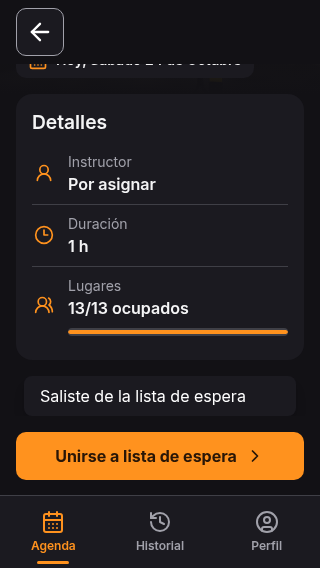
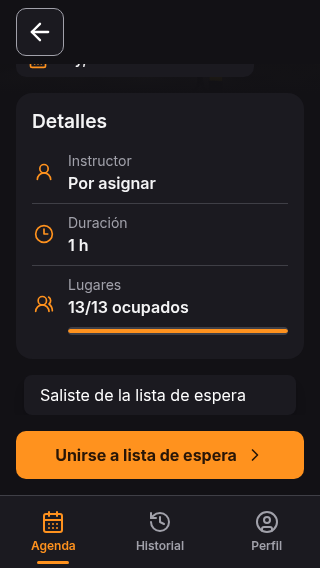
Fix installed PWA navigation and floral background layering

diff --git a/styles/cempasuchil.css b/styles/cempasuchil.css
@@ -3,9 +3,8 @@
 /* Hallmark · finish-review: subagent · ship · 2 findings resolved: toolbar and feedback no longer cover content */
 /* styles/cempasuchil.css: integrates the seasonal artwork and class-detail layout. */
 /* RELEVANT FILES: index.html, styles/app.css, styles/tokens.css, images/cempasuchil-border.png */
-.agenda-screen { isolation: isolate; min-height: calc(100dvh - var(--nav-height) - var(--safe-bottom)); }
-.agenda-screen > :not(.agenda-floral-dock) { position: relative; z-index: 1; }
-.agenda-floral-dock { position: fixed; inset-inline: 0; bottom: calc(var(--nav-height) + var(--safe-bottom)); margin: 0 !important; line-height: 0; z-index: 0; pointer-events: none; }
+.agenda-screen { min-height: 100%; }
+.agenda-floral-dock { position: absolute; inset-inline: 0; bottom: 0; margin: 0; line-height: 0; z-index: 0; pointer-events: none; }
 .agenda-floral-border { display: block; width: 100%; max-width: 760px; height: auto; max-height: 240px; object-fit: cover; object-position: bottom; margin-inline: auto; outline: none; user-select: none; }
 .app-bottom-nav { border-radius: 0; }
 body[data-app='member'] .app-bottom-nav .nav-button.active-nav::before { top: auto; bottom: var(--space-2xs); }
@@ -41,8 +40,8 @@ body[data-app='member'] .app-bottom-nav .nav-button.active-nav::before { top: au
 @media (prefers-reduced-motion: reduce) { .class-detail-booking-button { transition: none; } }
 
 /* Keep chrome and feedback outside the scroll pane so neither covers class information. */
-body[data-app='member'] #main-content.has-class-details { padding-bottom: calc(var(--nav-height) + var(--safe-bottom)); }
-.class-detail-screen { display: grid; grid-template-rows: auto minmax(0, 1fr) auto auto; height: calc(100dvh - var(--nav-height) - var(--safe-top) - var(--safe-bottom)); min-height: 0; }
+body[data-app='member'] #main-content.has-class-details { padding-bottom: 0; }
+.class-detail-screen { display: grid; grid-template-rows: auto minmax(0, 1fr) auto auto; height: 100%; min-height: 0; }
 .class-detail-toolbar { padding: var(--space-xs) var(--space-md); background: var(--color-paper); color: var(--color-ink); }
 .class-detail-back { position: static; }
 .class-detail-content { min-height: 0; overflow-y: auto; scroll-padding-block: var(--space-md); padding-bottom: var(--space-md); }
@@ -51,3 +50,15 @@ body[data-app='member'] #main-content.has-class-details { padding-bottom: calc(v
 .class-detail-feedback #toast { position: static; transform: none; width: auto; max-width: none; margin: 0 var(--space-lg); }
 .class-detail-feedback #toast.opacity-0 { display: none; }
 @media (max-height: 700px) { .class-detail-hero { min-height: 224px; } }
+
+/* A single shell owns the viewport; scrolling never repositions the navigation or artwork. */
+html { height: 100%; }
+body[data-app='member'] { display: flex; flex-direction: column; height: 100%; height: 100dvh; overflow-y: hidden; overscroll-behavior-y: none; }
+body[data-app='member'] #app-container { flex: 1 1 0; height: auto; min-height: 0; overflow: hidden; }
+.app-stage { position: relative; isolation: isolate; z-index: 0; flex: 1 1 0; min-height: 0; }
+body[data-app='member'] #main-content { position: relative; z-index: 1; height: 100%; min-height: 0; padding-bottom: var(--space-lg); scroll-padding-bottom: var(--space-lg); overscroll-behavior-y: contain; -webkit-overflow-scrolling: touch; }
+body[data-app='member'] .app-bottom-nav { position: relative; z-index: 1; flex: 0 0 auto; padding-bottom: var(--safe-bottom); }
+#main-content.has-class-details > div { height: 100%; }
+body[data-app='member'] #auth-container { flex: 1 1 0; height: auto; min-height: 0; overflow-y: auto; justify-content: flex-start; overscroll-behavior-y: contain; }
+#auth-container .auth-panel { flex: 0 0 auto; margin-block: auto; }
+body[data-app='member'] > .connection-status { flex: 0 0 auto; }

diff --git a/index.html b/index.html
@@ -39,8 +39,8 @@
     <meta name="apple-mobile-web-app-status-bar-style" content="black-translucent">
     <link rel="apple-touch-icon" href="./images/icon-192x192.png">
 
-    <link rel="stylesheet" href="./styles/app.css">
-    <link rel="stylesheet" href="./styles/cempasuchil.css">
+    <link rel="stylesheet" href="./styles/app.css?v=20261024-shell">
+    <link rel="stylesheet" href="./styles/cempasuchil.css?v=20261024-shell">
     <script src="./scripts/app-accessibility.js" defer></script>
 
   </head>
@@ -50,9 +50,14 @@
     <!-- Existing delegated data-action controls render inside the app shell. -->
     <!-- App -->
     <div id="app-container" class="h-screen flex-col overflow-hidden bg-zinc-900 hidden">
-      <main tabindex="-1" id="main-content" class="flex-1 overflow-y-auto pb-32 no-scrollbar"></main>
+      <div class="app-stage">
+        <div id="agenda-background" class="agenda-floral-dock" aria-hidden="true" hidden>
+          <img src="images/cempasuchil-border.png" alt="" class="agenda-floral-border" loading="lazy" decoding="async">
+        </div>
+        <main tabindex="-1" id="main-content" class="overflow-y-auto no-scrollbar"></main>
+      </div>
       <!-- NavBar -->
-      <nav aria-label="Navegación principal" class="app-bottom-nav fixed bottom-0 left-0 right-0 bg-zinc-800/80 backdrop-blur-lg border-t border-zinc-700 z-[30]">
+      <nav aria-label="Navegación principal" class="app-bottom-nav border-t border-zinc-700">
         <div id="nav-bar" class="flex justify-around h-20 max-w-md mx-auto">
           <button data-screen="agenda" class="nav-button flex-1 flex flex-col items-center justify-center p-4 active-nav text-orange-400">
             <svg aria-hidden="true" xmlns="http://www.w3.org/2000/svg" width="24" height="24" viewBox="0 0 24 24" fill="none" stroke="currentColor" stroke-width="2" stroke-linecap="round" stroke-linejoin="round" data-lucide="calendar-days" class="lucide lucide-calendar-days w-6 h-6 mb-1"><path d="M8 2v4"></path><path d="M16 2v4"></path><rect width="18" height="18" x="3" y="4" rx="2"></rect><path d="M3 10h18"></path><path d="M8 14h.01"></path><path d="M12 14h.01"></path><path d="M16 14h.01"></path><path d="M8 18h.01"></path><path d="M12 18h.01"></path><path d="M16 18h.01"></path></svg>
@@ -764,6 +769,7 @@
         // Render principal
         function render(){
           const screen = state.currentScreen;
+          document.getElementById('agenda-background').hidden = screen !== 'agenda';
           let content = '';
           if (screen === 'agenda') content = getAgendaScreenHTML();
           else if (screen === 'history') content = getHistoryScreenHTML();
@@ -997,9 +1003,6 @@
                 </div>
                 <div class="space-y-4">${classesHTML}</div>
               </section>
-              <div class="agenda-floral-dock" aria-hidden="true">
-                <img src="images/cempasuchil-border.png" alt="" aria-hidden="true" class="agenda-floral-border" loading="lazy" decoding="async">
-              </div>
             </div>`;
         }
 

diff --git a/styles/app.css b/styles/app.css
@@ -4,7 +4,7 @@
 /* Hallmark · finish-review: subagent · 4 findings · resolved visibility, search, density and calendar resize alignment */
 /* styles/app.css: shared mobile shell, member screens and accessible controls. */
 /* RELEVANT FILES: styles/tokens.css, styles/admin.css, index.html, admin.html */
-@import url('./tokens.css');
+@import url('./tokens.css?v=20261024-shell');
 * { box-sizing: border-box; }
 html, body { overflow-x: clip; }
 html { scrollbar-color: var(--color-muted) var(--color-paper); scroll-padding-top: var(--space-lg); }
@@ -130,3 +130,5 @@ label:has(input:focus-visible) { outline: 2px solid var(--color-focus); outline-
 
 #generic-modal { width: 100%; max-width: none; height: 100dvh; max-height: none; margin: 0; border: 0; color: var(--color-ink); }
 body .font-medium { font-weight: 600; }
+
+#toast.opacity-0 { pointer-events: none; }

diff --git a/docs/redesign/pwa-shell-fix.md b/docs/redesign/pwa-shell-fix.md
@@ -1,0 +1,47 @@
+<!-- docs/redesign/pwa-shell-fix.md -->
+<!-- Explains the installed-PWA navigation and artwork-layer correction. -->
+<!-- Records verification and the remaining physical iPhone check. -->
+<!-- RELEVANT FILES: index.html, styles/cempasuchil.css, styles/app.css, scripts/verify-member.cjs -->
+# Installed PWA shell correction
+
+The reported iPhone launch showed a gap below navigation, then changed navigation
+and flower placement after dragging. The old shell independently fixed navigation
+to the viewport and fixed artwork from within the scrolling Agenda stacking
+context. Root page scrolling was also possible. These arrangements are fragile
+under Safari viewport resizing and rubber-band compositing.
+
+The member body now owns the dynamic viewport as a flex column. The app uses its
+remaining space, including when connection guidance appears. Navigation occupies
+its own non-scrolling bottom row; its background includes the home-indicator safe
+area exactly once. The content stage has a shrinking scroll area and a separate,
+absolute floral background sibling beneath it. Flowers are no longer inside the
+scrolling screen or fixed independently to the viewport. History/profile/details
+hide that decorative layer. Class-details sizing follows its actual remaining
+content area. Authentication remains independently scrollable.
+
+Member stylesheet links and the imported tokens have versioned URLs. Source
+tokens are orange; the green controls in the report suggest older cached styles,
+although that phone's cache was not accessible for inspection. A fresh page load
+can retrieve matching current styles without clearing data. No worker cache,
+Firebase, manifest identity, deployment settings or data was changed, and no
+reload is forced on active forms. Hidden toasts no longer intercept taps.
+
+The isolated member checks pass, including the existing 45 class-state cases.
+Targeted checks simulate top/bottom safe areas of 47px/34px at 390×844, 390×720,
+back to 390×844, 844×390 and 320×568. At scroll offsets 0/1000/0 and resume events,
+they assert no gap below navigation, no gap between content and navigation,
+flowers aligned with that boundary, root scroll at zero, correct safe-area
+navigation height and current orange tokens. A paint-order probe temporarily
+enables pointer hit testing on the decorative layer and asserts that a class
+card stays above it. Normal pointer events on flowers remain off.
+
+```sh
+# Use the temporary tools/server setup described in README.md first.
+node scripts/verify-member.cjs --seasonal --shell
+```
+
+These are Chromium geometry/scroll checks on Linux, not physical iOS/Safari
+verification. Safari's actual rubber-band compositor is not reproduced by these
+assertions. Recheck launch and downward dragging on the reported iPhone after
+loading the update. Finish drafts, fully quit and reopen the PWA; there is no need
+to reinstall or clear site data.

diff --git a/docs/redesign/README.md b/docs/redesign/README.md
@@ -4,7 +4,8 @@
 <!-- RELEVANT FILES: index.html, admin.html, service-worker.js, firebase.json -->
 # Madness mobile PWA redesign
 
-Latest update: [Cempasúchil integration and deployment hold](cempasuchil.md).
+Latest fix: [Installed PWA shell correction](pwa-shell-fix.md).
+Seasonal integration: [Cempasúchil details](cempasuchil.md).
 The redesign branch has since been used for a successful Pages deployment;
 pushing further updates can publish them automatically.
 
